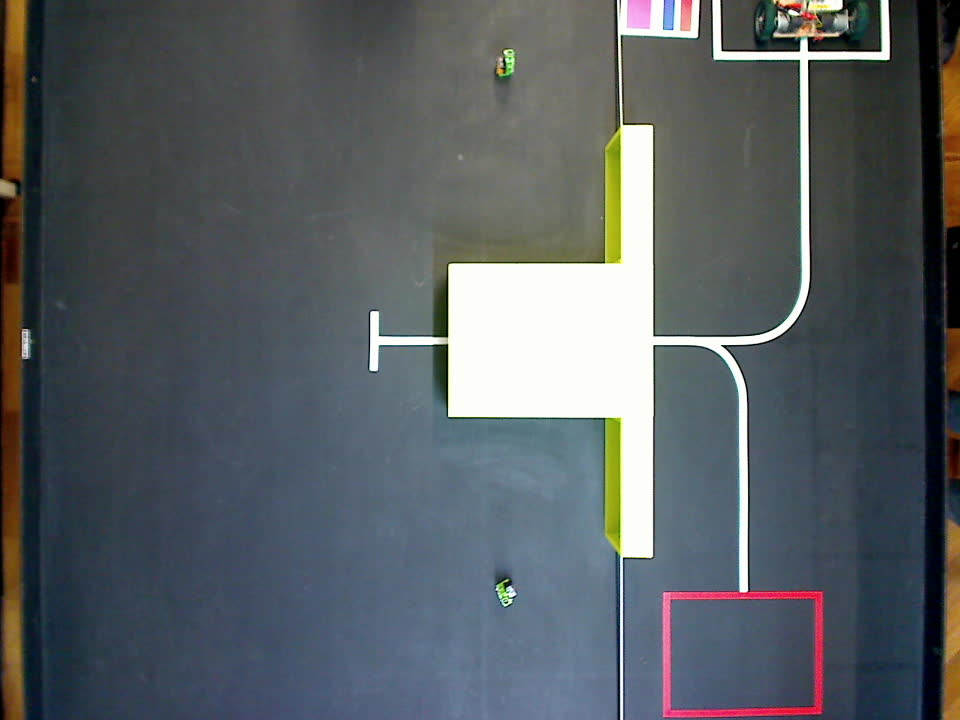
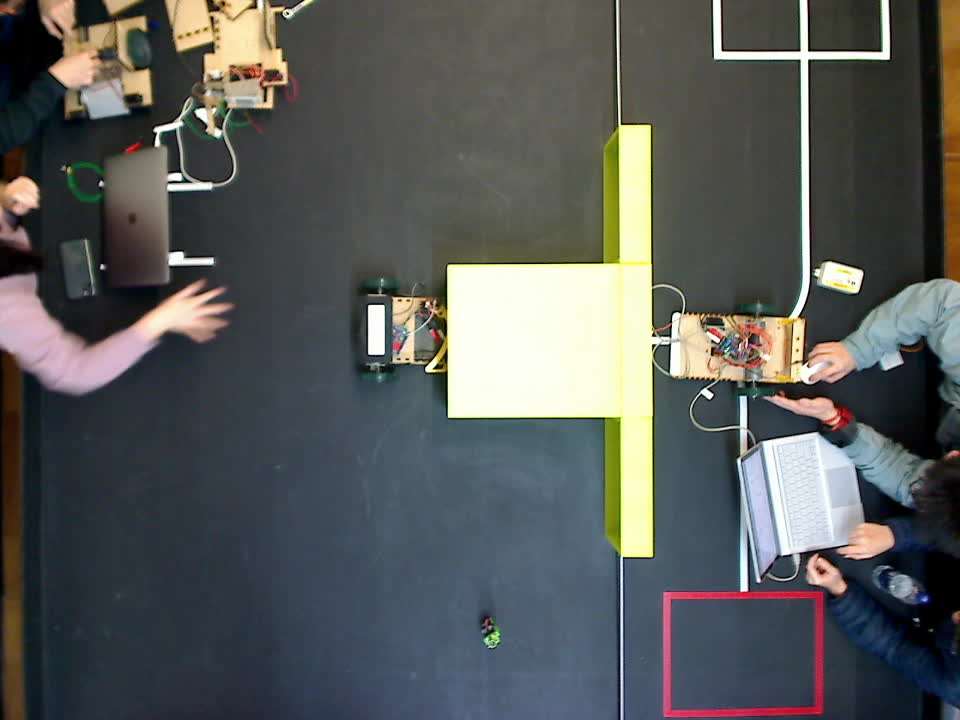
Updates

diff --git a/src/imaging.py b/src/imaging.py
@@ -10,12 +10,40 @@ IP_ADDR = "192.168.43.170"
 UDP_PORT = 2390
 
 class Image:
-    def __init__(self, src, threshold, num_colours, kernel_size):
+    def __init__(self, src, threshold, num_colours, kernel_size, find_targets):
         self.img = src
         self.centres = []
+        self.angles = []
         self.threshold = threshold
         self.num_colours = num_colours
         self.kernel_size = kernel_size
+        self.find_targets = find_targets
+
+    def _draw_axis(self, p, q, colour, scale=0.2):
+        angle = np.arctan2(p[1] - q[1], p[0] - q[0])
+        angle_deg = angle * 180 / np.pi
+
+        if angle_deg > 0:
+            self.angles.append(min(angle_deg, angle_deg - 180, key=np.abs))
+        else:
+            self.angles.append(min(angle_deg, angle_deg + 180, key=np.abs))
+
+        hypotenuse = np.sqrt((p[1] - q[1]) ** 2 + (p[0] - q[0]) ** 2)
+        q = np.zeros_like(q, dtype=np.int64)
+
+        # Lengthen the arrow by a factor of scale
+        q[0] = int(p[0] - scale * hypotenuse * np.cos(angle))
+        q[1] = int(p[1] - scale * hypotenuse * np.sin(angle))
+        cv2.line(self.img, (p[0], p[1]), (q[0], q[1]), colour, 1, cv2.LINE_AA)
+
+        # Create the arrow hooks
+        p[0] = int(q[0] + 9 * np.cos(angle + np.pi / 4))
+        p[1] = int(q[1] + 9 * np.sin(angle + np.pi / 4))
+        cv2.line(self.img, (p[0], p[1]), (q[0], q[1]), colour, 1, cv2.LINE_AA)
+
+        p[0] = int(q[0] + 9 * np.cos(angle - np.pi / 4))
+        p[1] = int(q[1] + 9 * np.sin(angle - np.pi / 4))
+        cv2.line(self.img, (p[0], p[1]), (q[0], q[1]), colour, 1, cv2.LINE_AA)
 
     def _get_orientation(self, pts):
         # Construct a buffer used by the PCA analysis
@@ -37,6 +65,8 @@ class Image:
         cv2.circle(self.img, (cntr[0], cntr[1]), 3, (255, 0, 255), 1)
         p1 = cntr + 0.02 * eigenvectors[0] * eigenvalues[0]
         p2 = cntr - 0.02 * eigenvectors[1] * eigenvalues[1]
+        self._draw_axis(copy.copy(cntr), p1, (0, 255, 0), 10)
+        self._draw_axis(copy.copy(cntr), p2, (255, 255, 0), 50)
 
         return np.arctan2(eigenvectors[0, 1], eigenvectors[0, 0])  # orientation in radians
 
@@ -73,11 +103,20 @@ class Image:
         bw = cv2.dilate(bw, kernel, iterations=1)
 
         # Apply mask
-        mask = 255 * np.ones_like(bw)
-        mask[:, :45] = 0
-        mask[:, 600:] = 0
-        mask[255:425, 365:600] = 0
-        bw = np.minimum(bw, mask)
+        if self.find_targets:
+            mask = 255 * np.ones_like(bw)
+            mask[:, :45] = 0
+            mask[:, 600:] = 0
+            mask[255:425, 365:600] = 0
+            bw = np.minimum(bw, mask)
+        
+        else:
+            mask = 255 * np.ones_like(bw)
+            mask[:, :355] = 0
+            mask[:, 445:] = 0
+            mask[:255, :] = 0
+            mask[425:, :] = 0
+            bw = np.minimum(bw, mask)
 
         # Find all the contours in the threshold range
         _, contours, _ = cv2.findContours(bw, cv2.RETR_LIST, cv2.CHAIN_APPROX_NONE)
@@ -85,9 +124,14 @@ class Image:
         for i in range(len(contours)):
             x, y, w, h = cv2.boundingRect(contours[i])
             area = cv2.contourArea(contours[i])
+            print(area)
             # Ignore contours that are too small or too large
-            if (w < 10) or (w > 100) or (h < 10) or (h > 100) or (area > 1000) or (area < 200):
-                continue
+            if self.find_targets:
+                if (w < 10) or (w > 100) or (h < 10) or (h > 100) or (area > 1000) or (area < 200):
+                    continue
+            else:
+                if (area > 850) or (area < 650):
+                    continue
 
             # Draw each contour only for visualisation purposes
             cv2.drawContours(self.img, contours, i, (0, 0, 255), 1)
@@ -103,8 +147,10 @@ class Image:
     def get_centres(self):
         return np.array(self.centres)
 
-def send_data(sock, centres):
-    for coordinate in np.nditer(centres):
+def send_centres(sock, centres):
+    for (i, coordinate) in enumerate(np.nditer(centres)):
+        if (i == 8):
+            return
         # In the order x1, y1, x2, y2 etc.
         time.sleep(0.5)
         message = str(coordinate)
@@ -112,17 +158,22 @@ def send_data(sock, centres):
     
     if len(np.nditer(centres)) < 8:
         n = 8 - len(np.nditer(centres))
-        for i in range(n):
+        for i in range(6):
             time.sleep(0)
             message = '0'
             sock.sendto(message.encode(), (UDP_IP, UDP_PORT))
 
+def send_angle(sock, angle):
+    time.sleep(0.5)
+    message = str(angle)
+    print(message)
+    sock.sendto(message.encode(), (UDP_IP, UDP_PORT))
+
 def receive_data(sock):
-    sock.bind((IP_ADDR, UDP_PORT))
     while True:
         data, addr = sock.recvfrom(1024)  # buffer size of 1024 bytes
+        print(data)
         if data == b'Connection established':
-            print(data)
             break
 
 def dist(x, y):
@@ -138,15 +189,33 @@ def sort_coordinates(centres):
 def take_photo():
     os.system("ffmpeg -f video4linux2 -s 960x720 -i /dev/video4 -ss 0:0:1 -frames 1 ./images/test.jpg -y")
 
-if __name__ == '__main__':
-    sock = socket.socket(socket.AF_INET, socket.SOCK_DGRAM)
-    receive_data(sock)
+def process_image(threshold, num_colours, kernel_size, find_targets):
     take_photo()
     src = cv2.imread(os.path.join(os.getcwd(), 'images', 'test.jpg'))
     assert src is not None
-    image = Image(copy.copy(src), threshold=2, num_colours=8, kernel_size=7)
+    image = Image(copy.copy(src), threshold, num_colours, kernel_size, find_targets)
     image.draw_contours()
+    return image
+
+if __name__ == '__main__':
+    sock = socket.socket(socket.AF_INET, socket.SOCK_DGRAM)
+    sock.bind((IP_ADDR, UDP_PORT))
+    receive_data(sock)
+    image = process_image(threshold=2, num_colours=8, kernel_size=7, find_targets=True)
     centres = sort_coordinates(image.get_centres())
     print(centres)
-    send_data(sock, centres)
-    image.show()
+    send_centres(sock, centres)
+    # image.show()
+    
+    for i in range(5):
+        receive_data(sock)
+        image = process_image(threshold=1, num_colours=8, kernel_size=1, find_targets=False)
+        print(image.angles)
+        angles = np.asarray(image.angles)
+        if list(angles):
+            angle = int(angles[np.argmin(np.abs(angles))])
+            print(angle)
+        else:
+            angle = 0
+        send_angle(sock, angle)
+        # image.show()

diff --git a/README.md b/README.md
@@ -3,3 +3,7 @@
 > Code and relevant data files for IDP.
 
 Source code lives in `src` directory.
+
+## Notes
+
+White lead is left motor, red lead is right motor.
